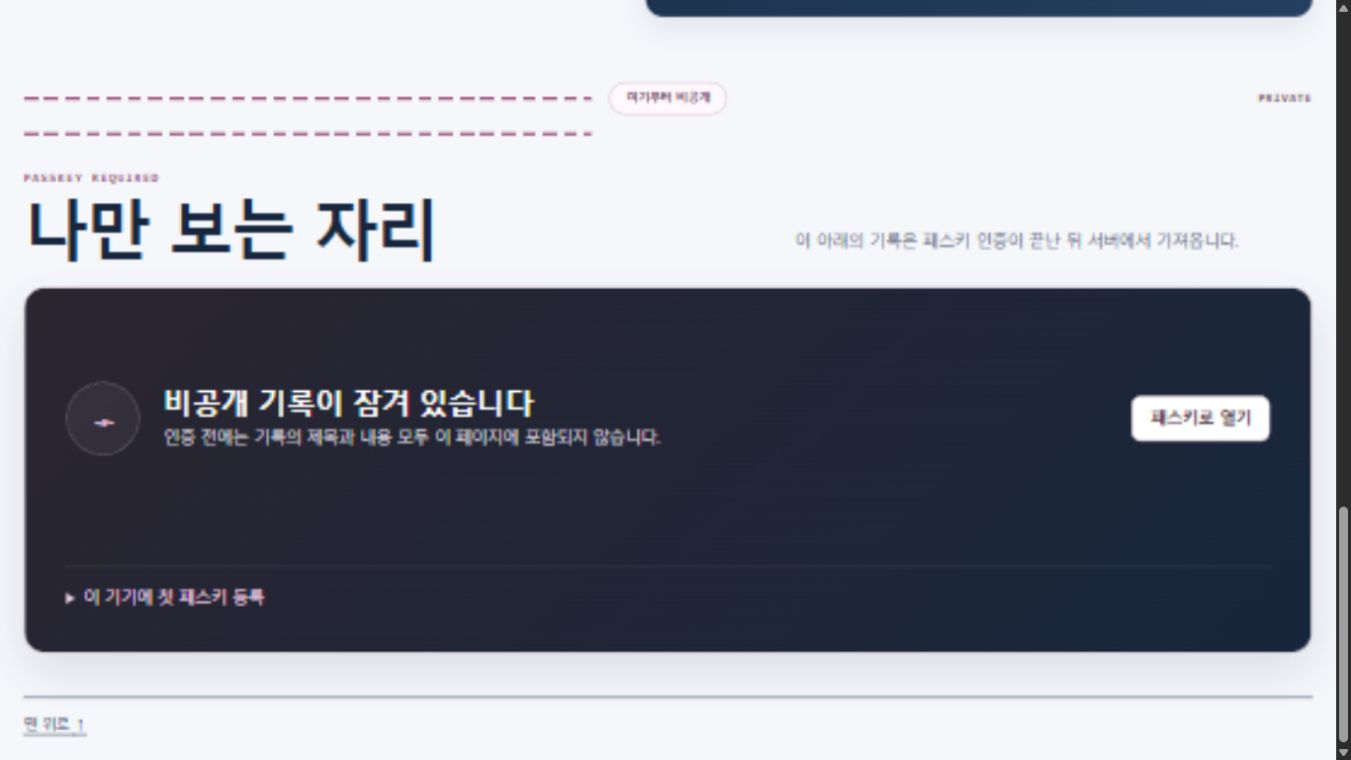
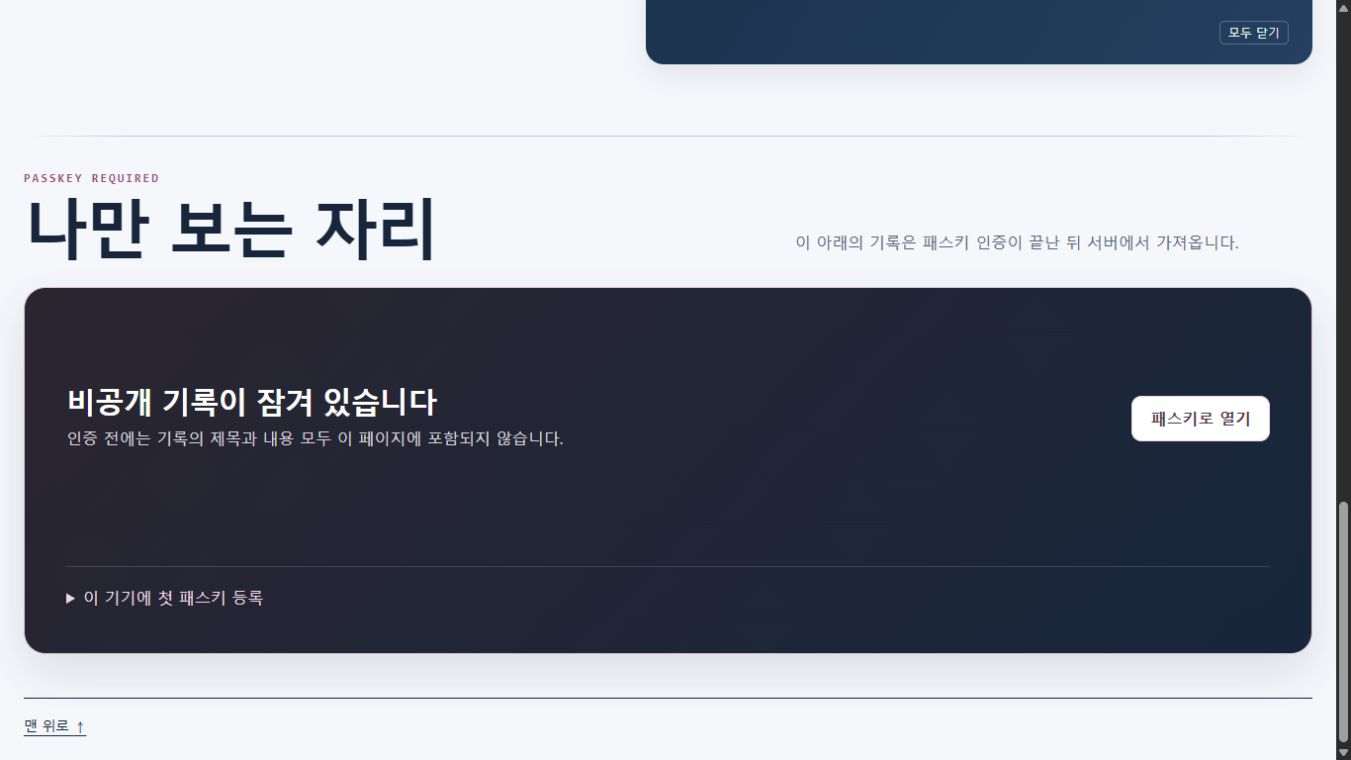
style: 비공개 영역 경계와 잠금 안내 단순화
- [Style] 공개 영역 아래 경계를 얇은 반투명 선으로 변경
- [Style] 잠금 안내의 원형 아이콘 제거와 정렬 조정
- [Docs] 화면 증거와 인계 문서 갱신

diff --git a/styles.css b/styles.css
@@ -78,20 +78,15 @@ button { font:inherit; cursor:pointer; }
 .scope-card li { margin:.7rem 0; }
 .allowed { background:#edf7f3; border-color:#cfe7dd; } .protected { background:#edf1f8; border-color:#d9e1ee; }
 .allowed h3 { color:#236953; }.protected h3 { color:#3a547c; }
-.privacy-boundary { width:min(1320px,calc(100% - 48px)); margin:22px auto 0; display:grid; grid-template-columns:1fr auto 1fr; align-items:center; gap:18px; color:#7a516a; font:700 .72rem/1 Consolas,"Courier New",monospace; letter-spacing:.13em; }
-.privacy-boundary::before,.privacy-boundary::after { content:""; height:3px; background:repeating-linear-gradient(90deg,#9d507b 0 14px,transparent 14px 21px); }
-.privacy-boundary span:first-child { display:none; }
-.privacy-boundary span:last-child { justify-self:end; }
-.privacy-boundary strong { padding:10px 16px; border:1px solid #d9bed0; border-radius:999px; background:#fff8fc; color:#70415e; font-family:"Malgun Gothic","Apple SD Gothic Neo",system-ui,sans-serif; letter-spacing:0; }
+.privacy-boundary { width:min(1320px,calc(100% - 48px)); height:1px; margin:28px auto 0; background:linear-gradient(90deg,transparent,rgba(23,38,60,.22) 8%,rgba(23,38,60,.22) 92%,transparent); }
 .private-section.section { padding-top:34px; }
 .private-heading { display:grid; grid-template-columns:minmax(0,1fr) minmax(260px,.7fr); column-gap:32px; align-items:end; margin-bottom:24px; }
 .private-heading h2 { margin:0; font-size:clamp(2.4rem,4.8vw,5rem); }
 .private-heading>p:last-child { margin:0 0 8px; color:var(--muted); word-break:keep-all; }
 .private-eyebrow { grid-column:1/-1; margin-bottom:6px; color:#9d507b; font:700 .78rem/1.3 Consolas,"Courier New",monospace; letter-spacing:.14em; }
 .private-panel { padding:clamp(22px,4vw,42px); border:1px solid #d8c6d2; border-radius:22px; background:linear-gradient(135deg,#2b2530,#17263c); color:#fff; box-shadow:0 18px 45px #17263c20; }
-.private-lock { min-height:180px; display:grid; grid-template-columns:auto 1fr auto; gap:24px; align-items:center; }
+.private-lock { min-height:180px; display:grid; grid-template-columns:1fr auto; gap:24px; align-items:center; }
 .private-lock[hidden] { display:none; }
-.lock-mark { width:74px; height:74px; display:grid; place-items:center; border:1px solid #ffffff42; border-radius:50%; background:#ffffff0d; color:#f4cce4; font-size:2.3rem; transform:rotate(-18deg); }
 .private-lock h3 { margin-bottom:8px; font-size:clamp(1.4rem,2.2vw,2rem); }
 .private-lock p { margin:0; color:#d8d5df; word-break:keep-all; }
 .passkey-button,.passkey-setup button,.private-logout { min-height:46px; padding:0 18px; border:1px solid #f2d4e7; border-radius:10px; background:#fff; color:#53364a; font-weight:700; }
@@ -185,11 +180,9 @@ summary:focus-visible { outline:3px solid var(--focus); outline-offset:3px; }
   .values-grid { grid-template-columns:1fr; }
   .value-card { border-radius:14px; }
   .value-definition { min-height:0; }
-  .privacy-boundary { width:min(100% - 32px,1320px); gap:10px; }
-  .privacy-boundary strong { padding:8px 12px; font-size:.72rem; }
+  .privacy-boundary { width:min(100% - 32px,1320px); }
   .private-heading { grid-template-columns:1fr; gap:10px; }
   .private-lock { grid-template-columns:1fr; justify-items:start; }
-  .lock-mark { width:58px; height:58px; }
   .private-items { grid-template-columns:1fr; }
   .passkey-setup-fields { grid-template-columns:1fr; }
 }

diff --git a/index.html b/index.html
@@ -218,11 +218,7 @@
         </div>
       </section>
 
-      <div class="privacy-boundary" role="separator" aria-label="여기부터 비공개 영역">
-        <span>PUBLIC</span>
-        <strong>여기부터 비공개</strong>
-        <span>PRIVATE</span>
-      </div>
+      <div class="privacy-boundary" role="separator" aria-label="여기부터 비공개 영역"></div>
 
       <section class="private-section section" id="private-space" aria-labelledby="private-title">
         <div class="private-heading">
@@ -233,7 +229,6 @@
 
         <div class="private-panel" data-private-panel data-state="locked">
           <div class="private-lock" data-private-lock>
-            <span class="lock-mark" aria-hidden="true">⌁</span>
             <div>
               <h3>비공개 기록이 잠겨 있습니다</h3>
               <p>인증 전에는 기록의 제목과 내용 모두 이 페이지에 포함되지 않습니다.</p>

diff --git a/PROJECT_CONTEXT.md b/PROJECT_CONTEXT.md
@@ -3,13 +3,14 @@
 ## 기준 상태
 
 - 현재 브랜치: `t08/passkey`
-- 기준 커밋(현재 HEAD): `4da2dd3bb6c35175adcc9e471865aedd5636281b`
+- 기준 커밋(현재 HEAD): `3bd45317aba8f2014e02b3a17760e7ef102959be`
 - 커밋 상태: 이번 변경은 아직 커밋하지 않음
 - 작업 트리: 패스키 비공개 공간 구현 파일이 수정·추가된 상태
 
 ## 이번 작업에서 완료한 내용
 
-- 기존 공개 소개 페이지의 마지막 아래에 `여기부터 비공개` 경계와 잠금 패널을 추가했습니다.
+- 기존 공개 소개 페이지의 마지막 아래에 얇은 반투명 구분선과 잠금 패널을 추가했습니다.
+- 구분선의 문구·배지·점선을 제거하고, 잠금 안내 왼쪽의 원형 아이콘도 제거했습니다.
 - 인증 전 HTML에는 비공개 항목 제목·본문을 넣지 않고, 패스키 인증 뒤 `/api/private-items`에서 받은 값만 `textContent`로 렌더링합니다.
 - SimpleWebAuthn 등록·인증 옵션/검증 API, 서명된 `HttpOnly` 세션 쿠키, 로그아웃 API를 추가했습니다.
 - 최초 패스키 등록은 32자 이상의 `PASSKEY_SETUP_SECRET` 또는 이미 인증된 세션이 있어야 가능합니다.

diff --git a/docs/card1/README.md b/docs/card1/README.md
@@ -10,7 +10,7 @@
 
 ## 화면 경계
 
-공개 소개의 마지막 항목 아래에 `여기부터 비공개` 경계선을 두고, 그 아래를 어두운 잠금 패널로 구분했습니다. 인증 전 HTML에는 잠금 안내와 패스키 버튼만 있으며, 항목 제목과 본문은 `/api/private-items`의 인증된 응답으로 받은 뒤 DOM 요소의 `textContent`로 추가합니다.
+공개 소개의 마지막 항목 아래에 얇은 반투명 구분선을 두고, 그 아래를 어두운 잠금 패널로 구분했습니다. 인증 전 HTML에는 잠금 안내와 패스키 버튼만 있으며, 항목 제목과 본문은 `/api/private-items`의 인증된 응답으로 받은 뒤 DOM 요소의 `textContent`로 추가합니다.
 
 화면 증거: `public-private-boundary.png`
 
